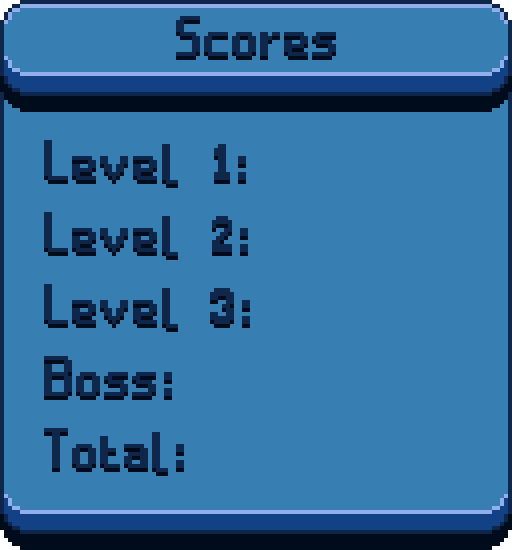
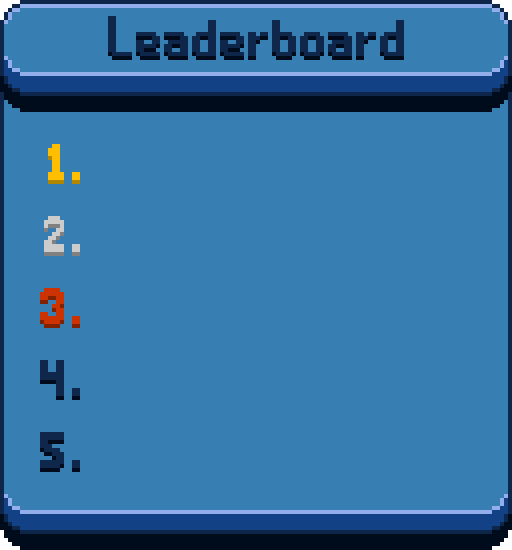
12/7

diff --git a/forms.py b/forms.py
@@ -1,6 +1,7 @@
 import pygame
 from configurations import levels, volume, delete_data_json,\
-    delete_data_db, get_all_scores, get_level_permissions
+    delete_data_db, get_all_scores, get_level_permissions,\
+    obtain_top_5_players_data
 from GUI_button_image import *
 from GUI_button import *
 from GUI_checkbox import *
@@ -87,6 +88,8 @@ class LevelMenu(Form):
                                 self.press_button, ["resources/graphics/GUI/button settings 2 pressed.png", 'settings'])
         btn_personal_stats = Button_Image(self._slave, x, y, 1164, 150, 96, 112, "resources/graphics/GUI/button personal stats loose.png", 
                                 self.press_button, ["resources/graphics/GUI/button personal stats pressed.png", 'personal stats'])
+        btn_leaderboard = Button_Image(self._slave, x, y, 1164, 280, 96, 112, "resources/graphics/GUI/button leaderboard loose.png", 
+                                self.press_button, ["resources/graphics/GUI/button leaderboard pressed.png", 'leaderboard'])
         interface = PictureBox(self._slave, 384, 144, 512, 400, "resources/graphics/GUI/interface level select.png")
         btn_lvl_1 = Button_Image(self._slave, x, y, 424, 320, 96, 112, "resources/graphics/GUI/button level 1 loose.png", 
                                 self.press_button, ["resources/graphics/GUI/button level 1 pressed.png", '1'])
@@ -104,6 +107,7 @@ class LevelMenu(Form):
         self.widgets_dict['bg'] = bg
         self.widgets_dict['btn back'] = btn_back
         self.widgets_dict['btn personal stats'] = btn_personal_stats
+        self.widgets_dict['btn leaderboard'] = btn_leaderboard
         self.widgets_dict['btn settings'] = btn_settings
         self.widgets_dict['interface'] = interface
         self.widgets_dict['btn lvl 1'] = btn_lvl_1
@@ -141,7 +145,7 @@ class LevelMenu(Form):
         self.sfx_btn_pressed.play(0)
 
         if key != 'back' and key != 'personal stats' and key != 'settings'\
-            and key != 'level' and key != 'delete data':
+            and key != 'level' and key != 'delete data' and key != 'leaderboard':
             if self.song_name != key and self.level_permissions[key]:
                 self.song.fadeout(200)
                 
@@ -569,7 +573,7 @@ class PersonalStats(Form):
         bg = PictureBox(self._slave, x, y, 1280, 672, "resources/graphics/bg/main menu.png")
         btn_back = Button_Image(self._slave, x, y, 20, 20, 96, 112, "resources/graphics/GUI/button back loose.png", 
                                 self.press_button, ["resources/graphics/GUI/button back pressed.png", 'back'])
-        interface = PictureBox(self._slave, 384, 61, 512, 550, "resources/graphics/GUI/interface leaderboard.png")
+        interface = PictureBox(self._slave, 384, 60, 512, 550, "resources/graphics/GUI/interface scores.png")
         lvl_1_score = Label(self._slave, 700, 200, 120, 64,'',"Arial black",
                             30,"black", "resources/graphics/GUI/table 1.png")
         lvl_2_score = Label(self._slave, 700, 270, 120, 64,'',"Arial black",
@@ -640,8 +644,139 @@ class PersonalStats(Form):
 
 ####################################################################################################################################
 
-class LogIn(Form):
+class Leaderboard(Form):
     def __init__(self, screen, x, y, w, h, color_background, color_border="Black", border_size=-1, active=True):
         super().__init__(screen, x, y, w, h, color_background, color_border, border_size, active)
 
-        pass
+        self.form_flag = ''
+
+        bg = PictureBox(self._slave, x, y, 1280, 672, "resources/graphics/bg/main menu.png")
+        btn_back = Button_Image(self._slave, x, y, 20, 20, 96, 112, "resources/graphics/GUI/button back loose.png", 
+                                self.press_button, ["resources/graphics/GUI/button back pressed.png", 'back'])
+        interface = PictureBox(self._slave, 384, 60, 512, 550, "resources/graphics/GUI/interface leaderboard.png")
+        top_1 = Label(self._slave, 472, 188, 380, 64,'',"Arial black",
+                        30,"black", "resources/graphics/GUI/table 2.png")
+        top_2 = Label(self._slave, 472, 260, 380, 64,'',"Arial black",
+                        30,"black", "resources/graphics/GUI/table 2.png")
+        top_3 = Label(self._slave, 472, 332, 380, 64,'',"Arial black",
+                        30,"black", "resources/graphics/GUI/table 2.png")
+        top_4 = Label(self._slave, 472, 404, 380, 64,'',"Arial black",
+                        30,"black", "resources/graphics/GUI/table 2.png")
+        top_5 = Label(self._slave, 472, 476, 380, 64,'',"Arial black",
+                        30,"black", "resources/graphics/GUI/table 2.png")
+        
+        self.widgets_dict['bg'] = bg
+        self.widgets_dict['btn back'] = btn_back
+        self.widgets_dict['interface'] = interface
+        self.widgets_dict['top 1'] = top_1
+        self.widgets_dict['top 2'] = top_2
+        self.widgets_dict['top 3'] = top_3
+        self.widgets_dict['top 4'] = top_4
+        self.widgets_dict['top 5'] = top_5
+
+        self.leaderboard = {
+            '1':0,
+            '2':0,
+            '3':0,
+            '4':0,
+            '5':0,
+        }
+
+        # SFX
+        self.sfx_btn_pressed = pygame.mixer.Sound("resources/sfx/GUI/button pressed.mp3")
+
+        self.sounds_flag = True
+    
+    def press_button(self, path_btn_pressed, key):
+        btn_pressed = pygame.image.load(path_btn_pressed)
+        self.sfx_btn_pressed.play(0)
+        
+        self.form_flag = key
+
+        return btn_pressed
+
+    def update(self, events_list):
+        if self.active:
+            self.form_flag = 'leaderboard'
+            if self.sounds_flag:
+                pos = 0
+                leaderboard = obtain_top_5_players_data()
+
+                for key in self.leaderboard:
+                    for widget in self.widgets_dict:
+                        if widget.rfind(key) != -1:
+                            pos += 1
+                            data = f"{leaderboard[str(pos)]['username']}   {leaderboard[str(pos)]['total']}"
+                            self.widgets_dict[widget].set_text(data)
+                            
+                self.sfx_btn_pressed.set_volume(volume.sfx_volume)
+                self.sounds_flag = False
+            self.draw()
+            for widget in self.widgets_dict:
+                self.widgets_dict[widget].update(events_list)
+        else:
+            self.sounds_flag = True
+
+            for widget in self.widgets_dict:
+                if widget.rfind('btn') != -1 and self.widgets_dict[widget].isclicked:
+                    self.widgets_dict[widget]._slave = self.widgets_dict[widget].image
+                else:
+                    self.widgets_dict[widget].update(events_list)
+        
+        return self.form_flag
+
+####################################################################################################################################
+
+class SetUsername(Form):
+    def __init__(self, screen, x, y, w, h, color_background, color_border="Black", border_size=-1, active=True):
+        super().__init__(screen, x, y, w, h, color_background, color_border, border_size, active)
+
+        self.form_flag = ''
+
+        bg = PictureBox(self._slave, x, y, 1280, 672, "resources/graphics/bg/main menu.png")
+        btn_back = Button_Image(self._slave, x, y, 20, 20, 96, 112, "resources/graphics/GUI/button back loose.png", 
+                                self.press_button, ["resources/graphics/GUI/button back pressed.png", 'back'])
+        interface = PictureBox(self._slave, 384, 144, 512, 400, "resources/graphics/GUI/interface settings.png")
+
+        self.widgets_dict['bg'] = bg
+        self.widgets_dict['btn back'] = btn_back
+        self.widgets_dict['interface'] = interface
+
+        # Music
+        self.song = pygame.mixer.Sound("resources/music/settings and htp.mp3")
+
+        # SFX
+        self.sfx_btn_pressed = pygame.mixer.Sound("resources/sfx/GUI/button pressed.mp3")
+
+        self.sounds_flag = True
+    
+    def press_button(self, path_btn_pressed, key):
+        btn_pressed = pygame.image.load(path_btn_pressed)
+        self.sfx_btn_pressed.play(0)
+        self.form_flag = key
+
+        return btn_pressed
+
+    def update(self, events_list):
+        if self.active:
+            self.form_flag = 'set username'
+            if self.sounds_flag:
+                self.song.set_volume(volume.music_volume)
+                self.sfx_btn_pressed.set_volume(volume.sfx_volume)
+                self.song.play(-1,0,200)
+                self.sounds_flag = False
+            
+            self.draw()
+            for widget in self.widgets_dict:
+                self.widgets_dict[widget].update(events_list)
+        else:
+            self.song.stop()
+            self.sounds_flag = True
+
+            for widget in self.widgets_dict:
+                if widget.rfind('btn') != -1 and self.widgets_dict[widget].isclicked:
+                    self.widgets_dict[widget]._slave = self.widgets_dict[widget].image
+                else:
+                    self.widgets_dict[widget].update(events_list)
+            
+        return self.form_flag

diff --git a/main.py b/main.py
@@ -12,7 +12,7 @@ clock = pygame.time.Clock()
 from configurations import levels, create_stats_json, create_scores_db
 from level import Level
 from forms import MainMenu, LevelMenu, PauseMenu, Settings,\
-    RankScreen, HowToPlayMenu, DeleteData, PersonalStats
+    RankScreen, HowToPlayMenu, DeleteData, PersonalStats, Leaderboard
 
 create_stats_json()
 create_scores_db()
@@ -25,6 +25,7 @@ rank_screen = RankScreen(screen,0,0,screen_w,screen_h,"black","black",1,False)
 htp_menu = HowToPlayMenu(screen,0,0,screen_w,screen_h,"black","black",1,False)
 delete_data = DeleteData(screen,0,0,screen_w,screen_h,"black","black",1,False)
 personal_stats = PersonalStats(screen,0,0,screen_w,screen_h,"black","black",1,False)
+leaderboard = Leaderboard(screen,0,0,screen_w,screen_h,"black","black",1,False)
 
 lvl_form = ''
 lvl_selected = ''
@@ -158,6 +159,17 @@ while 1:
                 open_form_flag = True
                 personal_stats.close()
                 personal_stats.update(events_list)
+        case 'leaderboard':
+            if open_form_flag:
+                leaderboard.open()
+                open_form_flag = False
+            current_form = leaderboard.update(events_list)
+            if current_form != 'leaderboard':
+                forms_list.pop()
+                form_pos -= 1
+                open_form_flag = True
+                leaderboard.close()
+                leaderboard.update(events_list)
 
     pygame.display.update()
     clock.tick(60)
